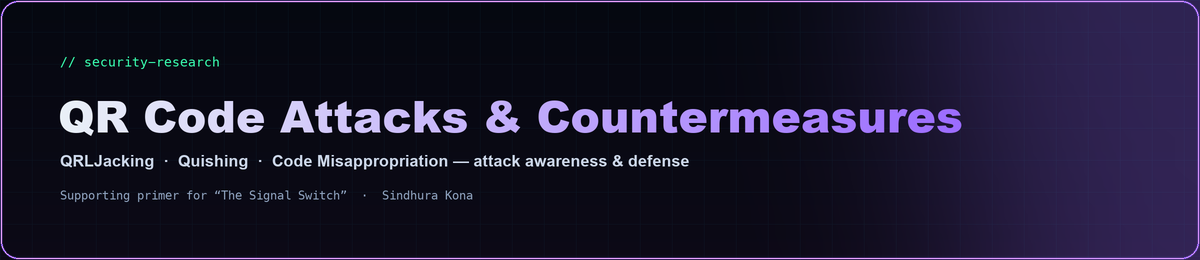
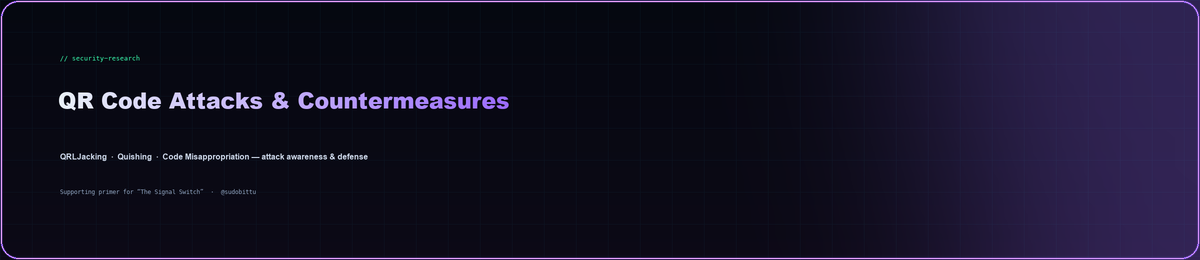
Use handle 'sudobittu' instead of real name

diff --git a/README.md b/README.md
@@ -3,7 +3,7 @@
 
 
 # Signal Hijacked — Original Research
-## Sindhura Kona — Independent Security Researcher — 2026
+## sudobittu — Independent Security Researcher — 2026
 
 ## THE SIGNAL SWITCH
 
@@ -13,7 +13,7 @@ skepticism to compliance when faced with a QR-based
 phishing attack delivered through a trusted mobile 
 messaging channel.
 
-Coined and developed by Sindhura Kona, 2026.
+Coined and developed by sudobittu, 2026.
 
 ## CORE RESEARCH AREA
 
